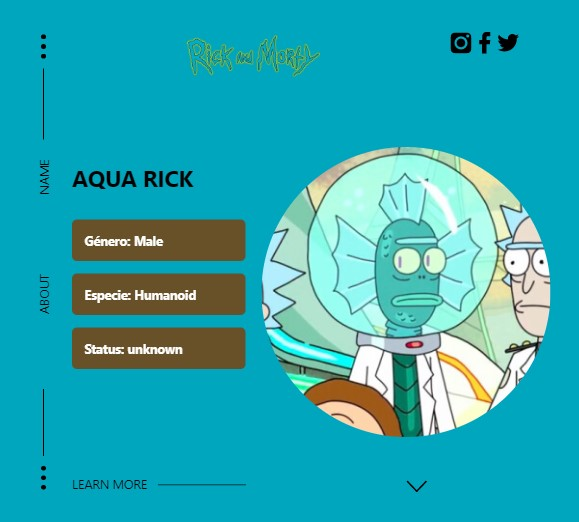
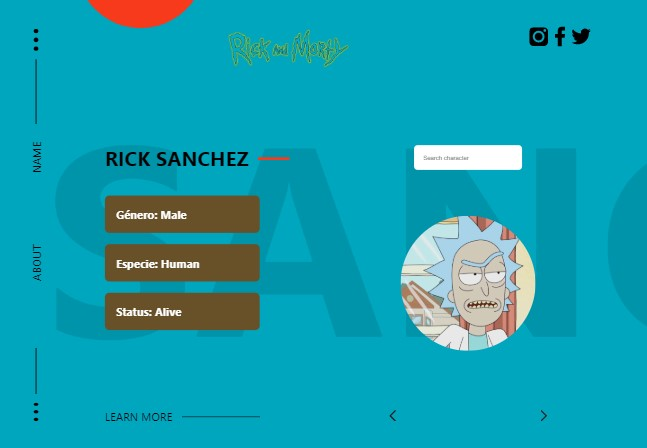
search character by name

diff --git a/static/css/styles.css b/static/css/styles.css
@@ -39,6 +39,17 @@ body {
   display: block;
 }
 
+.search {
+  grid-area: search;
+  margin: auto auto;
+  width: 200px;
+  height: 45px;
+  border-radius: 8px;
+  border: none;
+  padding: 5px 20px;
+  outline: none;
+}
+
 .grid {
   position: relative;
   z-index: 2;
@@ -48,7 +59,7 @@ body {
   grid-template-columns: 50px 1fr 1fr 200px;
   grid-template-rows: 230px 120px 1fr 1fr 1fr;
   column-gap: 8em;
-  grid-template-areas: "asset-top logo logo social" "name character-name avatar avatar" "about character-description avatar avatar" "asset-bottom character-text avatar avatar" "asset-bottom learn-more arrow arrow";
+  grid-template-areas: "asset-top logo logo social" "name character-name search search" "about character-description avatar avatar" "asset-bottom character-text avatar avatar" "asset-bottom learn-more arrow arrow";
 }
 
 .asset {
@@ -334,10 +345,14 @@ body {
     margin: 0 auto;
     column-gap: 1em;
     grid-template-columns: 50px 1fr 1fr;
-    grid-template-rows: repeat(6, auto);
+    grid-template-rows: repeat(7, auto);
     /* grid-template-rows: auto 300px 60px 1fr 1fr; */
-    grid-template-areas: "logo logo logo" "name avatar avatar" "name character-name character-name" "about character-description character-description" "arrow arrow arrow" "social social social";
+    grid-template-areas: "logo logo logo" "search search search" "name avatar avatar" "name character-name character-name" "about character-description character-description" "arrow arrow arrow" "social social social";
     /* grid-template-areas: "asset-top logo logo social" "name character-name avatar avatar" "about character-description avatar avatar" "asset-bottom character-text avatar avatar" "asset-bottom learn-more arrow another-line"; */
+  }
+
+  .search {
+    margin: 40px calc(50vw - 8em);
   }
 
   .asset {

diff --git a/static/js/app.js b/static/js/app.js
@@ -6,6 +6,10 @@ let currentCharacter = 1;
 const $loadNext = document.querySelector("#load-next");
 const $loadBefore = document.querySelector("#load-before");
 
+const $loadCharacterSearching = document.querySelector("#searchh");
+
+$loadCharacterSearching.addEventListener("change", updateValue);
+
 $loadNext.addEventListener("click", async () => {
   const characterData = await api.getCharacter(++currentCharacter);
   new Character(characterData);
@@ -21,10 +25,18 @@ $loadBefore.addEventListener("click", async () => {
   new Character(characterData);
 });
 
+async function updateValue(e) {
+  const name = e.target.value;
+  const characterData = await api.getCharacterByName(name);
+  new Character(characterData.results[0]);
+}
+
 async function initApp(initCharacterId) {
   const characterData = await api.getCharacter(initCharacterId);
-  console.log(characterData);
-  const rick = new Character(characterData);
+  const allCharacters = await api.getAllCharacters();
+  // console.log(characterData);
+  // console.log(allCharacters);
+
   new Character(characterData);
   //   name: "pancho",
   //   img: "http://127.0.0.1:5500/static/images/logo@2x.png",

diff --git a/static/js/api.js b/static/js/api.js
@@ -6,4 +6,19 @@ export default class API {
     // .then((response) => response.json())
     // .then((data) => data);
   }
+
+  async getAllCharacters() {
+    const characters = await fetch(
+      "https://rickandmortyapi.com/api/character/"
+    );
+    return characters.json();
+  }
+
+  async getCharacterByName(name) {
+    const character = await fetch(
+      `https://rickandmortyapi.com/api/character/?name=${name}`
+    );
+    const data = (await character).json();
+    return data;
+  }
 }

diff --git a/index.html b/index.html
@@ -27,6 +27,13 @@
         width="280"
         class="logo"
       />
+      <input
+        type="text"
+        class="search"
+        value=""
+        id="searchh"
+        placeholder="Search character"
+      />
       <div class="social">
         <a href="https://instagram.com/chesminm">
           <img src="./static/images/instagram.svg" alt="logo instagram" />
